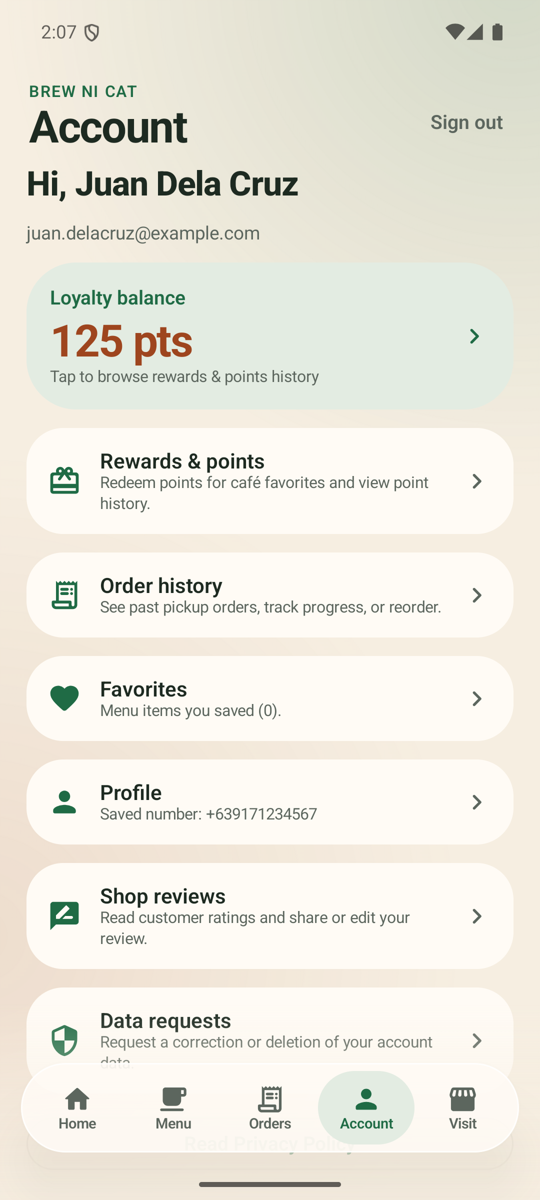
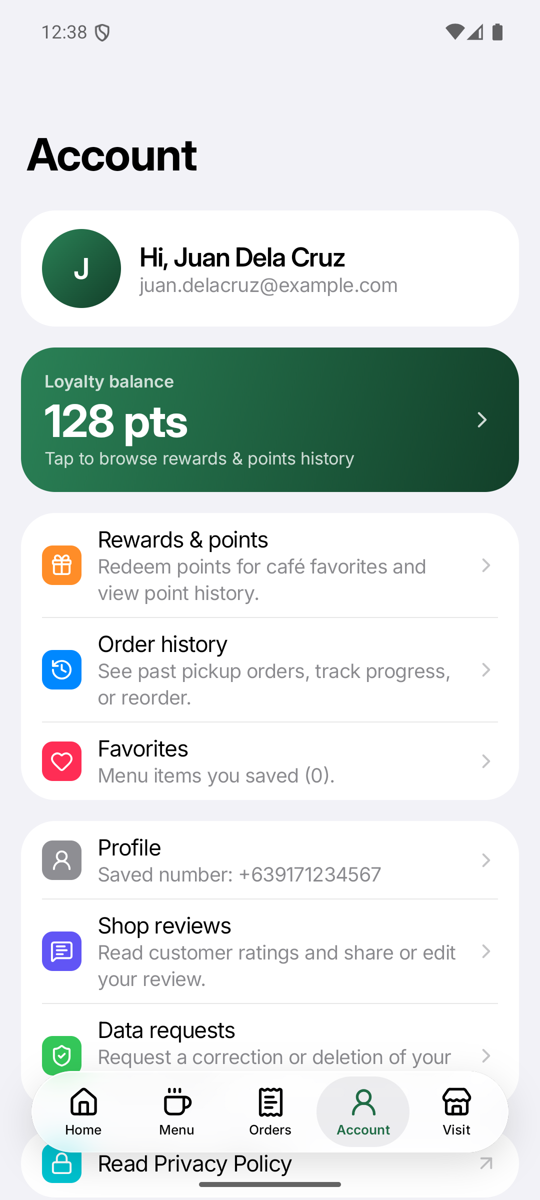
feat(android): rebuild every screen on an iOS 27 UI Kit design system

diff --git a/android/app/src/main/java/com/brewnicat/connect/ui/screens/OrdersScreen.kt b/android/app/src/main/java/com/brewnicat/connect/ui/screens/OrdersScreen.kt
@@ -62,7 +62,7 @@ fun KitColors.statusColor(status: String) = when (status) {
     "ready" -> green
     "completed" -> gray
     "preparing" -> brown
-    else -> tint
+    else -> tintFill
 }
 
 @Composable
@@ -125,7 +125,7 @@ private fun androidx.compose.foundation.lazy.LazyListScope.orderDetail(vm: AppVi
         Section {
             Cell {
                 Column(Modifier.fillMaxWidth().padding(vertical = 8.dp), horizontalAlignment = Alignment.CenterHorizontally) {
-                    IconCircle(statusIcon(order.status), c.statusColor(order.status), size = 72.dp)
+                    IconCircle(statusIcon(order.status), c.statusColor(order.status).let { if (it == c.tintFill) c.tint else it }, size = 72.dp)
                     Text(
                         OrderView.label(order.status), style = KitType.title1.bold, color = c.label,
                         modifier = Modifier.padding(top = 14.dp).semantics { heading() },

diff --git a/android/THIRD_PARTY_NOTICES.md b/android/THIRD_PARTY_NOTICES.md
@@ -1,0 +1,163 @@
+# Third-party notices (Android app)
+
+The Android app bundles or compiles in the following third-party material.
+
+| Component                         | Where                             | Licence                   |
+| --------------------------------- | --------------------------------- | ------------------------- |
+| Inter typeface (Rasmus Andersson) | `app/src/main/res/font/inter.ttf` | SIL Open Font License 1.1 |
+| Lucide icons                      | path data in `ui/kit/Icons.kt`    | ISC License               |
+| Haze (`dev.chrisbanes.haze:haze`) | Gradle dependency, glass blur     | Apache License 2.0        |
+
+Inter stands in for SF Pro and Lucide stands in for SF Symbols, because Apple's
+fonts and symbols may only be used on Apple platforms. The layout follows
+Apple's iOS 27 UI Kit; no Apple artwork, font or symbol is included.
+
+Haze is licensed under the Apache License 2.0
+(https://www.apache.org/licenses/LICENSE-2.0); see
+https://github.com/chrisbanes/haze for its notice.
+
+## Inter: SIL Open Font License 1.1
+
+```text
+Copyright 2020 The Inter Project Authors (https://github.com/rsms/inter)
+
+This Font Software is licensed under the SIL Open Font License, Version 1.1.
+This license is copied below, and is also available with a FAQ at:
+https://scripts.sil.org/OFL
+
+
+-----------------------------------------------------------
+SIL OPEN FONT LICENSE Version 1.1 - 26 February 2007
+-----------------------------------------------------------
+
+PREAMBLE
+The goals of the Open Font License (OFL) are to stimulate worldwide
+development of collaborative font projects, to support the font creation
+efforts of academic and linguistic communities, and to provide a free and
+open framework in which fonts may be shared and improved in partnership
+with others.
+
+The OFL allows the licensed fonts to be used, studied, modified and
+redistributed freely as long as they are not sold by themselves. The
+fonts, including any derivative works, can be bundled, embedded,
+redistributed and/or sold with any software provided that any reserved
+names are not used by derivative works. The fonts and derivatives,
+however, cannot be released under any other type of license. The
+requirement for fonts to remain under this license does not apply
+to any document created using the fonts or their derivatives.
+
+DEFINITIONS
+"Font Software" refers to the set of files released by the Copyright
+Holder(s) under this license and clearly marked as such. This may
+include source files, build scripts and documentation.
+
+"Reserved Font Name" refers to any names specified as such after the
+copyright statement(s).
+
+"Original Version" refers to the collection of Font Software components as
+distributed by the Copyright Holder(s).
+
+"Modified Version" refers to any derivative made by adding to, deleting,
+or substituting -- in part or in whole -- any of the components of the
+Original Version, by changing formats or by porting the Font Software to a
+new environment.
+
+"Author" refers to any designer, engineer, programmer, technical
+writer or other person who contributed to the Font Software.
+
+PERMISSION & CONDITIONS
+Permission is hereby granted, free of charge, to any person obtaining
+a copy of the Font Software, to use, study, copy, merge, embed, modify,
+redistribute, and sell modified and unmodified copies of the Font
+Software, subject to the following conditions:
+
+1) Neither the Font Software nor any of its individual components,
+in Original or Modified Versions, may be sold by itself.
+
+2) Original or Modified Versions of the Font Software may be bundled,
+redistributed and/or sold with any software, provided that each copy
+contains the above copyright notice and this license. These can be
+included either as stand-alone text files, human-readable headers or
+in the appropriate machine-readable metadata fields within text or
+binary files as long as those fields can be easily viewed by the user.
+
+3) No Modified Version of the Font Software may use the Reserved Font
+Name(s) unless explicit written permission is granted by the corresponding
+Copyright Holder. This restriction only applies to the primary font name as
+presented to the users.
+
+4) The name(s) of the Copyright Holder(s) or the Author(s) of the Font
+Software shall not be used to promote, endorse or advertise any
+Modified Version, except to acknowledge the contribution(s) of the
+Copyright Holder(s) and the Author(s) or with their explicit written
+permission.
+
+5) The Font Software, modified or unmodified, in part or in whole,
+must be distributed entirely under this license, and must not be
+distributed under any other license. The requirement for fonts to
+remain under this license does not apply to any document created
+using the Font Software.
+
+TERMINATION
+This license becomes null and void if any of the above conditions are
+not met.
+
+DISCLAIMER
+THE FONT SOFTWARE IS PROVIDED "AS IS", WITHOUT WARRANTY OF ANY KIND,
+EXPRESS OR IMPLIED, INCLUDING BUT NOT LIMITED TO ANY WARRANTIES OF
+MERCHANTABILITY, FITNESS FOR A PARTICULAR PURPOSE AND NONINFRINGEMENT
+OF COPYRIGHT, PATENT, TRADEMARK, OR OTHER RIGHT. IN NO EVENT SHALL THE
+COPYRIGHT HOLDER BE LIABLE FOR ANY CLAIM, DAMAGES OR OTHER LIABILITY,
+INCLUDING ANY GENERAL, SPECIAL, INDIRECT, INCIDENTAL, OR CONSEQUENTIAL
+DAMAGES, WHETHER IN AN ACTION OF CONTRACT, TORT OR OTHERWISE, ARISING
+FROM, OUT OF THE USE OR INABILITY TO USE THE FONT SOFTWARE OR FROM
+OTHER DEALINGS IN THE FONT SOFTWARE.
+```
+
+## Lucide: ISC License
+
+```text
+ISC License
+
+Copyright (c) 2026 Lucide Icons and Contributors
+
+Permission to use, copy, modify, and/or distribute this software for any
+purpose with or without fee is hereby granted, provided that the above
+copyright notice and this permission notice appear in all copies.
+
+THE SOFTWARE IS PROVIDED "AS IS" AND THE AUTHOR DISCLAIMS ALL WARRANTIES
+WITH REGARD TO THIS SOFTWARE INCLUDING ALL IMPLIED WARRANTIES OF
+MERCHANTABILITY AND FITNESS. IN NO EVENT SHALL THE AUTHOR BE LIABLE FOR
+ANY SPECIAL, DIRECT, INDIRECT, OR CONSEQUENTIAL DAMAGES OR ANY DAMAGES
+WHATSOEVER RESULTING FROM LOSS OF USE, DATA OR PROFITS, WHETHER IN AN
+ACTION OF CONTRACT, NEGLIGENCE OR OTHER TORTIOUS ACTION, ARISING OUT OF
+OR IN CONNECTION WITH THE USE OR PERFORMANCE OF THIS SOFTWARE.
+
+---
+
+The following Lucide icons are derived from the Feather project:
+
+airplay, alert-circle, alert-octagon, alert-triangle, aperture, arrow-down-circle, arrow-down-left, arrow-down-right, arrow-down, arrow-left-circle, arrow-left, arrow-right-circle, arrow-right, arrow-up-circle, arrow-up-left, arrow-up-right, arrow-up, at-sign, calendar, cast, check, chevron-down, chevron-left, chevron-right, chevron-up, chevrons-down, chevrons-left, chevrons-right, chevrons-up, circle, clipboard, clock, code, columns, command, compass, corner-down-left, corner-down-right, corner-left-down, corner-left-up, corner-right-down, corner-right-up, corner-up-left, corner-up-right, crosshair, database, divide-circle, divide-square, dollar-sign, download, external-link, feather, frown, hash, headphones, help-circle, info, italic, key, layout, life-buoy, link-2, link, loader, lock, log-in, log-out, maximize, meh, minimize, minimize-2, minus-circle, minus-square, minus, monitor, moon, more-horizontal, more-vertical, move, music, navigation-2, navigation, octagon, pause-circle, percent, plus-circle, plus-square, plus, power, radio, rss, search, server, share, shopping-bag, sidebar, smartphone, smile, square, table-2, tablet, target, terminal, trash-2, trash, triangle, tv, type, upload, x-circle, x-octagon, x-square, x, zoom-in, zoom-out
+
+The MIT License (MIT) (for the icons listed above)
+
+Copyright (c) 2013-present Cole Bemis
+
+Permission is hereby granted, free of charge, to any person obtaining a copy
+of this software and associated documentation files (the "Software"), to deal
+in the Software without restriction, including without limitation the rights
+to use, copy, modify, merge, publish, distribute, sublicense, and/or sell
+copies of the Software, and to permit persons to whom the Software is
+furnished to do so, subject to the following conditions:
+
+The above copyright notice and this permission notice shall be included in all
+copies or substantial portions of the Software.
+
+THE SOFTWARE IS PROVIDED "AS IS", WITHOUT WARRANTY OF ANY KIND, EXPRESS OR
+IMPLIED, INCLUDING BUT NOT LIMITED TO THE WARRANTIES OF MERCHANTABILITY,
+FITNESS FOR A PARTICULAR PURPOSE AND NONINFRINGEMENT. IN NO EVENT SHALL THE
+AUTHORS OR COPYRIGHT HOLDERS BE LIABLE FOR ANY CLAIM, DAMAGES OR OTHER
+LIABILITY, WHETHER IN AN ACTION OF CONTRACT, TORT OR OTHERWISE, ARISING FROM,
+OUT OF OR IN CONNECTION WITH THE SOFTWARE OR THE USE OR OTHER DEALINGS IN THE
+SOFTWARE.
+```

diff --git a/docs/functional-requirements.md b/docs/functional-requirements.md
@@ -122,7 +122,7 @@
 | ID | Requirement | Acceptance / verification | Priority | Target phase | Status |
 | --- | --- | --- | --- | --- | --- |
 | FR-065 | The Android application shall use the same versioned backend contracts and authoritative business/menu data as the website. | Cross-channel contract tests show equivalent records and server-side rules for the same authorized request. | Must | 8 | ~~Planned~~ Superseded 2026-11-13: Implemented (feat/p8-android-app: the app is a Trusted Web Activity over the live site, so it uses the same pages, API and data as the website by construction; ADR-035, TC-P8-023) Superseded 2026-11-14: In development (feat/p8-native-android, PR #150: native Kotlin/Compose app; menu from the same Supabase tables with the public key, orders through `/api/orders`, tracking through `get_online_order`). Update 2026-11-15 (`feat/p8-native-auth`): account, loyalty, rewards, favorites, order history, reviews (`POST /api/reviews`) and data requests use the same Supabase REST/RPCs and website API contracts, with JVM MockWebServer and Vitest contract checks (ADR-036, TC-P8-028, TC-P8-029, TC-P8-033) |
-| FR-066 | The Android application shall support the approved core customer journey: authentication, menu, cart, ordering, tracking, loyalty, and profile. | Each included journey passes device/emulator acceptance tests; any intentionally omitted web feature is documented. | Must | 8 | ~~Planned~~ Superseded 2026-11-13: In development (feat/p8-android-app) Superseded 2026-11-14: In development (feat/p8-native-android, PR #150: native home, menu, item options, cart, checkout, tracking and saved orders, TC-P8-030). Update 2026-11-15 (`feat/p8-native-auth`): native Google sign-in (PKCE in Custom Tabs), profile prefill/edit, order history with reorder, favorites, loyalty points & rewards redemption (`RWD-` code), reviews and data requests tested end to end on an Android 15 emulator against mock auth/fixtures (TC-P8-034, TC-P8-035); real Google consent (`MAN-P8-009`), mini-games and order/game ads follow next. Update 2026-11-16 (`feat/android-ui-redesign`): visual redesign with large titles, a floating glass tab bar and cart pill, no behaviour change (TC-P8-038) |
+| FR-066 | The Android application shall support the approved core customer journey: authentication, menu, cart, ordering, tracking, loyalty, and profile. | Each included journey passes device/emulator acceptance tests; any intentionally omitted web feature is documented. | Must | 8 | ~~Planned~~ Superseded 2026-11-13: In development (feat/p8-android-app) Superseded 2026-11-14: In development (feat/p8-native-android, PR #150: native home, menu, item options, cart, checkout, tracking and saved orders, TC-P8-030). Update 2026-11-15 (`feat/p8-native-auth`): native Google sign-in (PKCE in Custom Tabs), profile prefill/edit, order history with reorder, favorites, loyalty points & rewards redemption (`RWD-` code), reviews and data requests tested end to end on an Android 15 emulator against mock auth/fixtures (TC-P8-034, TC-P8-035); real Google consent (`MAN-P8-009`), mini-games and order/game ads follow next. Update 2026-11-16 (`feat/android-ui-redesign`, PR #153): every screen rebuilt without Material on an iOS 27 UI Kit design system (large titles, inset grouped lists, glass tab bar, sheets), light and dark, no behaviour change (TC-P8-038) |
 | FR-067 | The Android application shall store session material using platform-secure mechanisms and shall contain no privileged backend credential. | Static/build inspection finds no service-role secret; authenticated logout/expiration removes access as designed. | Must | 8 | ~~Planned~~ Superseded 2026-11-13: Implemented (feat/p8-android-app) Superseded 2026-11-14: In development (feat/p8-native-android, PR #150: no secret key; public Supabase values read from build env; internet permission only; backup off; TC-P8-024). Update 2026-11-15 (`feat/p8-native-auth`): access and refresh tokens are encrypted at rest with `AndroidKeyStore` AES-256-GCM (`KeystoreTokenCipher`), cleared on sign-out and auto-refreshed or cleared on expiry/401 (`TC-P8-031`, `TC-P8-032`) |
 | FR-068 | The Android application shall handle temporary network loss with a clear offline/error state and shall not report an unconfirmed order as submitted. | Simulated disconnect preserves safe local state, shows retry guidance, and creates no duplicate order after reconnection. | Must | 8 | ~~In development (web part: PR #105)~~ Superseded 2026-11-13: Implemented (PR #105 offline page and safe Place order retry; feat/p8-android-app) Superseded 2026-11-14: In development (feat/p8-native-android, PR #150: retry messages when menu, orders, rewards, history or reviews fail to load, cart preserved encrypted-free locally, Place order reuses idempotency key and tracking token; MAN-P8-008 on a real phone) |
 | FR-069 | The Android application shall meet the same authorization and server-side validation rules as the web client. | Directly altered requests from the app fail the same backend policy/validation tests as altered web requests. | Must | 8 | ~~Planned~~ Superseded 2026-11-13: Implemented (feat/p8-android-app) Superseded 2026-11-14: In development (feat/p8-native-android, PR #150: orders go through `/api/orders` with server pricing). Update 2026-11-15 (`feat/p8-native-auth`): signed-in reads/writes run under the customer's Supabase JWT and RLS, `submitDataRequest` omits owner-managed columns, and profile/review validation mirrors the web rules (`ADR-036`, `TC-P8-033`) |

diff --git a/docs/test-cases.md b/docs/test-cases.md
@@ -1670,5 +1670,5 @@ The customer Android app was first a Trusted Web Activity over the live site (AD
 | TC-P8-035 | FR-065, FR-089 | Vitest & JVM (`GamesTest`, `ApiTest`): native mini-games use server RPCs without awarding points on-device | `Api` calls `rpc/mini_game_status` and `rpc/play_mini_game`, handles PGRST202 missing RPC & 401 refresh/auth errors, `MiniGamesUiHelper.isWaitingStatus` matches `pending`/`accepted`/`preparing`, and `GamesParsers` decodes Cat cups & Lucky paw responses cleanly | Passed (automated) |
 | TC-P8-036 | FR-066, FR-090 | Vitest & JVM (`AdsTest`): native Adsterra ads load only after consent, on an isolated `data:` origin, only on waiting or completed orders | `AdConfig.shouldShowOrderAd` returns true only for `pending`/`accepted`/`preparing`/`completed` with valid 32-hex `NEXT_PUBLIC_AD_KEY`; `adDataUrl` encodes `data:text/html;charset=utf-8,`; `AdCard` blocks WebView creation before consent and sets `allowFileAccess = false` & `allowContentAccess = false` | Passed (automated) |
 | TC-P8-037 | FR-066, FR-089, FR-090 | Emulator (`bnc_phone`, Android 15) with `tools/mock_backend.py` (`--debug` `/mock-ad/`): place an order, play Cat cups & Lucky paw in auto-opened `MiniGamesDialog` (Light & Dark modes), dismiss popup, verify consent gate & isolated 300x250 banner on waiting and `completed` orders, and verify disappearance on `ready` | Popup opens automatically on new waiting order, Cat cups & Lucky paw update daily plays (`3 -> 0`) and balance (`125 -> 136 pts`) with crisp Oreo/Latte/Kulas sprites, consent prompt loads zero WebView until `Show ads`, mock 300x250 Adsterra canvas fills cleanly & revokes via `Turn off ads`, both games & ads disappear at `Ready for pickup`, and `completed` orders (`Picked up` / `BNC-PAST23`) show only `AdsterraAdCard` | Passed 2026-11-15 (emulator, mock orders/games/ads + live Supabase menu/hours) |
-| TC-P8-038 | FR-066, NFR-036 | Emulator (`bnc_phone`, Android 15) with `tools/mock_backend.py`: walk Home, Menu, Orders, Account, Visit, Cart and Checkout after the 2026-11-16 redesign (large titles, floating glass tab bar, floating cart pill, shadowed cards, spring presses) | Each tab shows a large title, content scrolls under the floating tab bar without being hidden (end padding clears it), the cart pill sits above the tab bar and the snackbar above the pill, rows and buttons give a press response, and text stays readable on the gradient background | Passed 2026-11-16 (emulator, light mode; dark mode checked in the PR) |
+| TC-P8-038 | FR-066, NFR-036 | Emulator (`bnc_phone`, Android 15) with `tools/mock_backend.py`: after the 2026-11-16 iOS 27 UI Kit rebuild, walk Home, Menu, item sheet, Cart, Checkout, Orders, order tracking, games sheet, Account, Order history, Favorites, Profile, Rewards, Points history, Shop reviews, Data requests and Visit in light and dark mode | No Material component remains; each screen shows a large title that collapses into the glass bar, inset grouped lists, the floating glass tab bar and cart pill without hiding content; text and icons stay readable in both modes; ordering, games, rewards, reviews and data requests behave as before; Order history opens without crashing | Passed 2026-11-16 (emulator, light and dark; evidence `docs/evidence/phase-8/android-app/redesign-*.png`) |
 | MAN-P8-009 | FR-031, FR-066 | Real Google OAuth consent round-trip on Android device/emulator against live Supabase Auth (`com.brewnicat.connect://auth/callback` allowlisted) | Tapping Continue with Google completes Google consent in Chrome Custom Tabs and signs into the real Supabase session | Not run yet (requires interactive Google account credentials; Supabase `uri_allow_list` updated 2026-11-14) |

diff --git a/docs/development-log.md b/docs/development-log.md
@@ -2008,11 +2008,10 @@ This log records completed work and observed evidence. Planned work is explicitl
 ## 2026-11-16 — Phase 8: Android UI redesign
 
 - **Phase:** Phase 8 (FR-066, NFR-036).
-- **Task:** The lead developer found the native app's look generic and not close to a current iOS feel. Redesign it without changing any behaviour.
-- **Summary:** Added large bold screen titles, a floating pill tab bar (tinted translucent fill with a light rim and soft shadow, animated selection, haptics) with a fade behind it, a floating cart pill, round glass back buttons, soft shadowed cards, capsule steppers, gradient primary buttons, a spring press scale on tappable rows and a warm radial background glow. Real backdrop blur needs Android 12 and the app supports Android 8, so the glass is a tinted fill, not a blur. Screens fade and scale between destinations. No data, API or navigation logic changed.
-- **Files:** `android/app/src/main/java/com/brewnicat/connect/ui/{BrewApp.kt,theme/Theme.kt,screens/{Components,HomeScreen,MenuScreen,OrdersScreen,VisitScreen,AccountScreen}.kt}`, `docs/{functional-requirements,test-cases,development-log}.md`.
-- **Testing:** see the PR.
-- **Branch / PR:** `feat/android-ui-redesign`.
-- **Known limitations:** Real blur is not used below Android 12. The website has no matching redesign yet.
+- **Task:** The lead developer found the native app generic and "still a stock Material app" and asked for it to be rebuilt on Apple's iOS 27 UI Kit (Sketch community file). Change the look without changing any behaviour.
+- **Summary:** Removed Material 3 completely and added a small Compose Foundation design system in `ui/kit` that follows the iOS 27 kit: system colours and grouped backgrounds (light `#F2F2F7`, dark `#000`/`#1C1C1E`), the brand green as the tint, the kit's type scale with title tracking tuned for Inter, large titles that collapse into a glass navigation bar, inset grouped lists and cells, capsule buttons, segmented controls, steppers, switches, bottom sheets and alerts, and a floating glass tab bar with a cart pill. Glass uses Haze (real blur on Android 12+, a tinted fill below). Every screen was rebuilt on the kit: Home, Menu (capsule category tabs), item sheet, Cart, Checkout, Orders, order tracking, the mini-games sheet, the ad consent card, Account (Settings-style), Order history, Favorites, Profile, Rewards, Points history, Shop reviews, Data requests and Visit. Inter stands in for SF Pro and Lucide for SF Symbols (`android/THIRD_PARTY_NOTICES.md`). No data, API or navigation logic changed; Custom Tabs sign-in and the ad WebView isolation are unchanged.
+- **Files:** `android/app/src/main/java/com/brewnicat/connect/ui/{BrewApp.kt,kit/*,screens/*}`, `android/app/src/main/res/font/inter.ttf`, `android/app/build.gradle.kts`, `android/{README,THIRD_PARTY_NOTICES}.md`, `docs/{functional-requirements,test-cases,development-log}.md`, `docs/evidence/phase-8/android-app/redesign-*.png`.
+- **Testing:** `testDebugUnitTest`, `assembleRelease` and `lintRelease` pass (0 errors, 0 warnings); `tests/unit/android-app.test.ts` passes. On the `bnc_phone` emulator (Android 15) with `tools/mock_backend.py`, every screen was walked in light and dark mode, an order was placed, the games sheet opened and Cat cups was won (TC-P8-038). A duplicate-key crash in Order history (two history rows with the same id) was found and fixed during the walk.
+- **Branch / PR:** `feat/android-ui-redesign`, PR #153.
+- **Known limitations:** Below Android 12 the glass is a tinted fill, not a blur. The website has no matching redesign yet (follow-up).
 - **Next action:** Free-play arcade games for the waiting popup (separate PR).
-

diff --git a/android/README.md b/android/README.md
@@ -32,13 +32,19 @@ Package `com.brewnicat.connect`; Android 8.0 (API 26) and later; compiled
 against and targeting API 36. It asks only for internet access and backs up
 nothing. It holds no secret key.
 
+The interface follows Apple's iOS 27 UI Kit (large titles, inset grouped lists,
+a floating glass tab bar, sheets and alerts) and is drawn entirely with
+Compose Foundation. It does not use Material. Inter stands in for SF Pro and
+Lucide icons stand in for SF Symbols; see `THIRD_PARTY_NOTICES.md`.
+
 ## Layout
 
 ```
 app/src/main/java/com/brewnicat/connect/
   data/   Menu (mapping), Pricing, Cart, Checkout, Orders, ShopHours, Auth,
           Account, Reorder, Games, Ads, Api, Store
-  ui/     BrewApp (navigation), AppViewModel, theme/, screens/ (incl. GamesDialog, AdCard)
+  ui/     BrewApp (navigation, tab bar), AppViewModel, kit/ (the iOS 27-style design
+          system: theme, type, icons, glass, lists, controls, sheets), screens/
 app/src/test/  JVM unit tests for the data, auth, account, game and ad layers
 app/src/debug/ debug-only network config for the local mock backend
 tools/mock_backend.py  stand-in backend for checkout, OAuth, loyalty, reviews, games & mock ads
